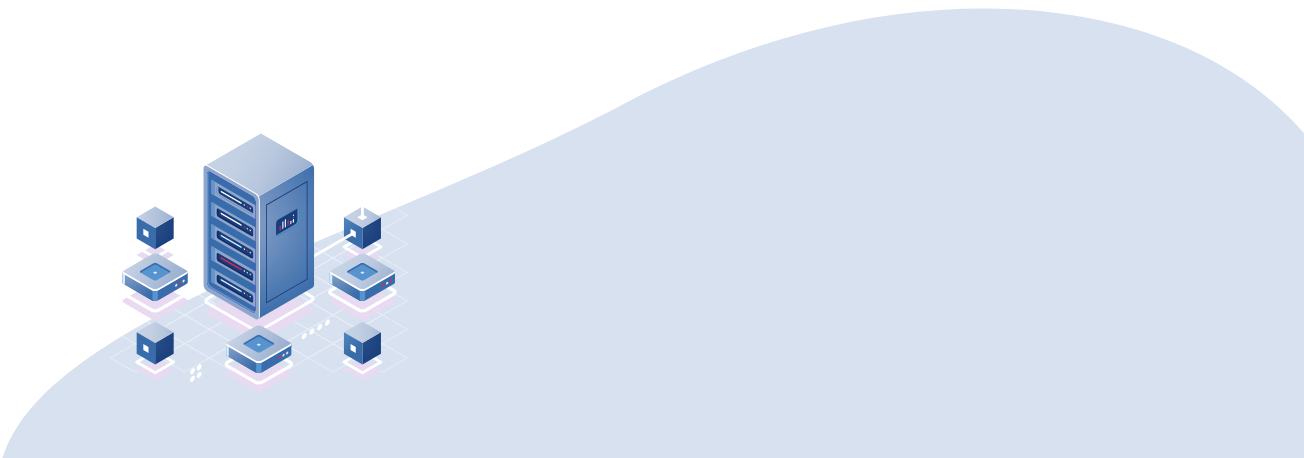
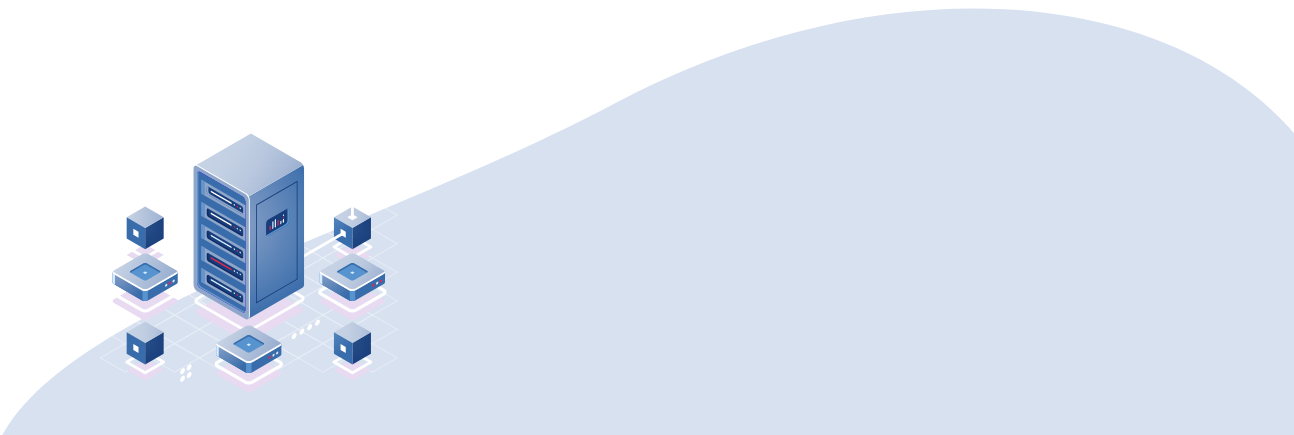
footer

diff --git a/style.css b/style.css
@@ -128,7 +128,7 @@ h1 {
 .section3 {
   display: grid;
   background-color: #8fa6cb;
-  grid-template-rows: 120px 150px 350px 130px;
+  grid-template-rows: 120px 150px 300px 120px;
 }
 
 .title {
@@ -193,7 +193,7 @@ h1 {
 
 .section4 {
   display: grid;
-  grid-template-rows: 200px 200px 1fr 210px;
+  grid-template-rows: 200px 200px 1fr 410px;
 }
 
 .title-aboutUs {
@@ -250,7 +250,7 @@ p:first-child {
   text-align: center;
   color: white;
   font-size: 18px;
-  width: 90%;
+  width: 88%;
   justify-self: center;
 }
 
@@ -265,8 +265,41 @@ p:first-child {
   background-color: #92d8ba;
   border-radius: 33px;
   border: none;
-  align-self: end;
+  align-self: center;
   justify-self: center;
 }
 
 /*#####################-->FOOTER<--###############################*/
+
+footer {
+  display: grid;
+  grid-template-columns: 1fr 1fr;
+  grid-template-rows: 1fr 1fr;
+}
+
+div.footer-boxes {
+  grid-column: 2/3;
+  grid-row: 2/3;
+  align-items: start;
+  z-index: 100;
+  display: grid;
+  grid-template-columns: auto auto auto;
+}
+
+h3:first-child {
+  line-height: 2.5;
+}
+
+.img-footer {
+  grid-column: 1/3;
+  grid-row: 1/3;
+}
+
+span {
+  grid-row: 2/3;
+  grid-column: 1/3;
+  z-index: 100;
+  text-align: end;
+  align-self: end;
+  line-height: 3;
+}

diff --git a/index.html b/index.html
@@ -93,25 +93,33 @@
     </section>
 
     <footer>
-      <div>
-        <h3>Contact us</h3>
-        <p>
-          info@yoma.com Study help About us
-        </p>
-      </div>
-      <div>
-        <h3>Support</h3>
-        <p>Teach for us Contact support FAQ</p>
-      </div>
-      <div>
-        <h3>Follow us</h3>
-        <p>Facebook Tweeter Linkedin</p>
+      <div class="footer-boxes">
+        <div>
+          <h3>Contact us</h3>
+          <p>info@yoma.com</p>
+          <p>Study help</p>
+          <p>About us</p>
+        </div>
+
+        <div>
+          <h3>Support</h3>
+          <p>Teach for us</p>
+          <p>Contact support</p>
+          <p>FAQ</p>
+        </div>
+
+        <div>
+          <h3>Follow us</h3>
+          <p>Facebook</p>
+          <p>Tweeter</p>
+          <p>Linkedin</p>
+        </div>
       </div>
       <span
         >© copyright 2020 Yoma.com. All other trademarks and copyrights are the
         property of their respective owners. All rights reserved.</span
       >
-      <img src="img/footer.png" alt="" />
+      <img class="img-footer" src="img/footer.png" alt="" />
     </footer>
   </body>
 </html>
